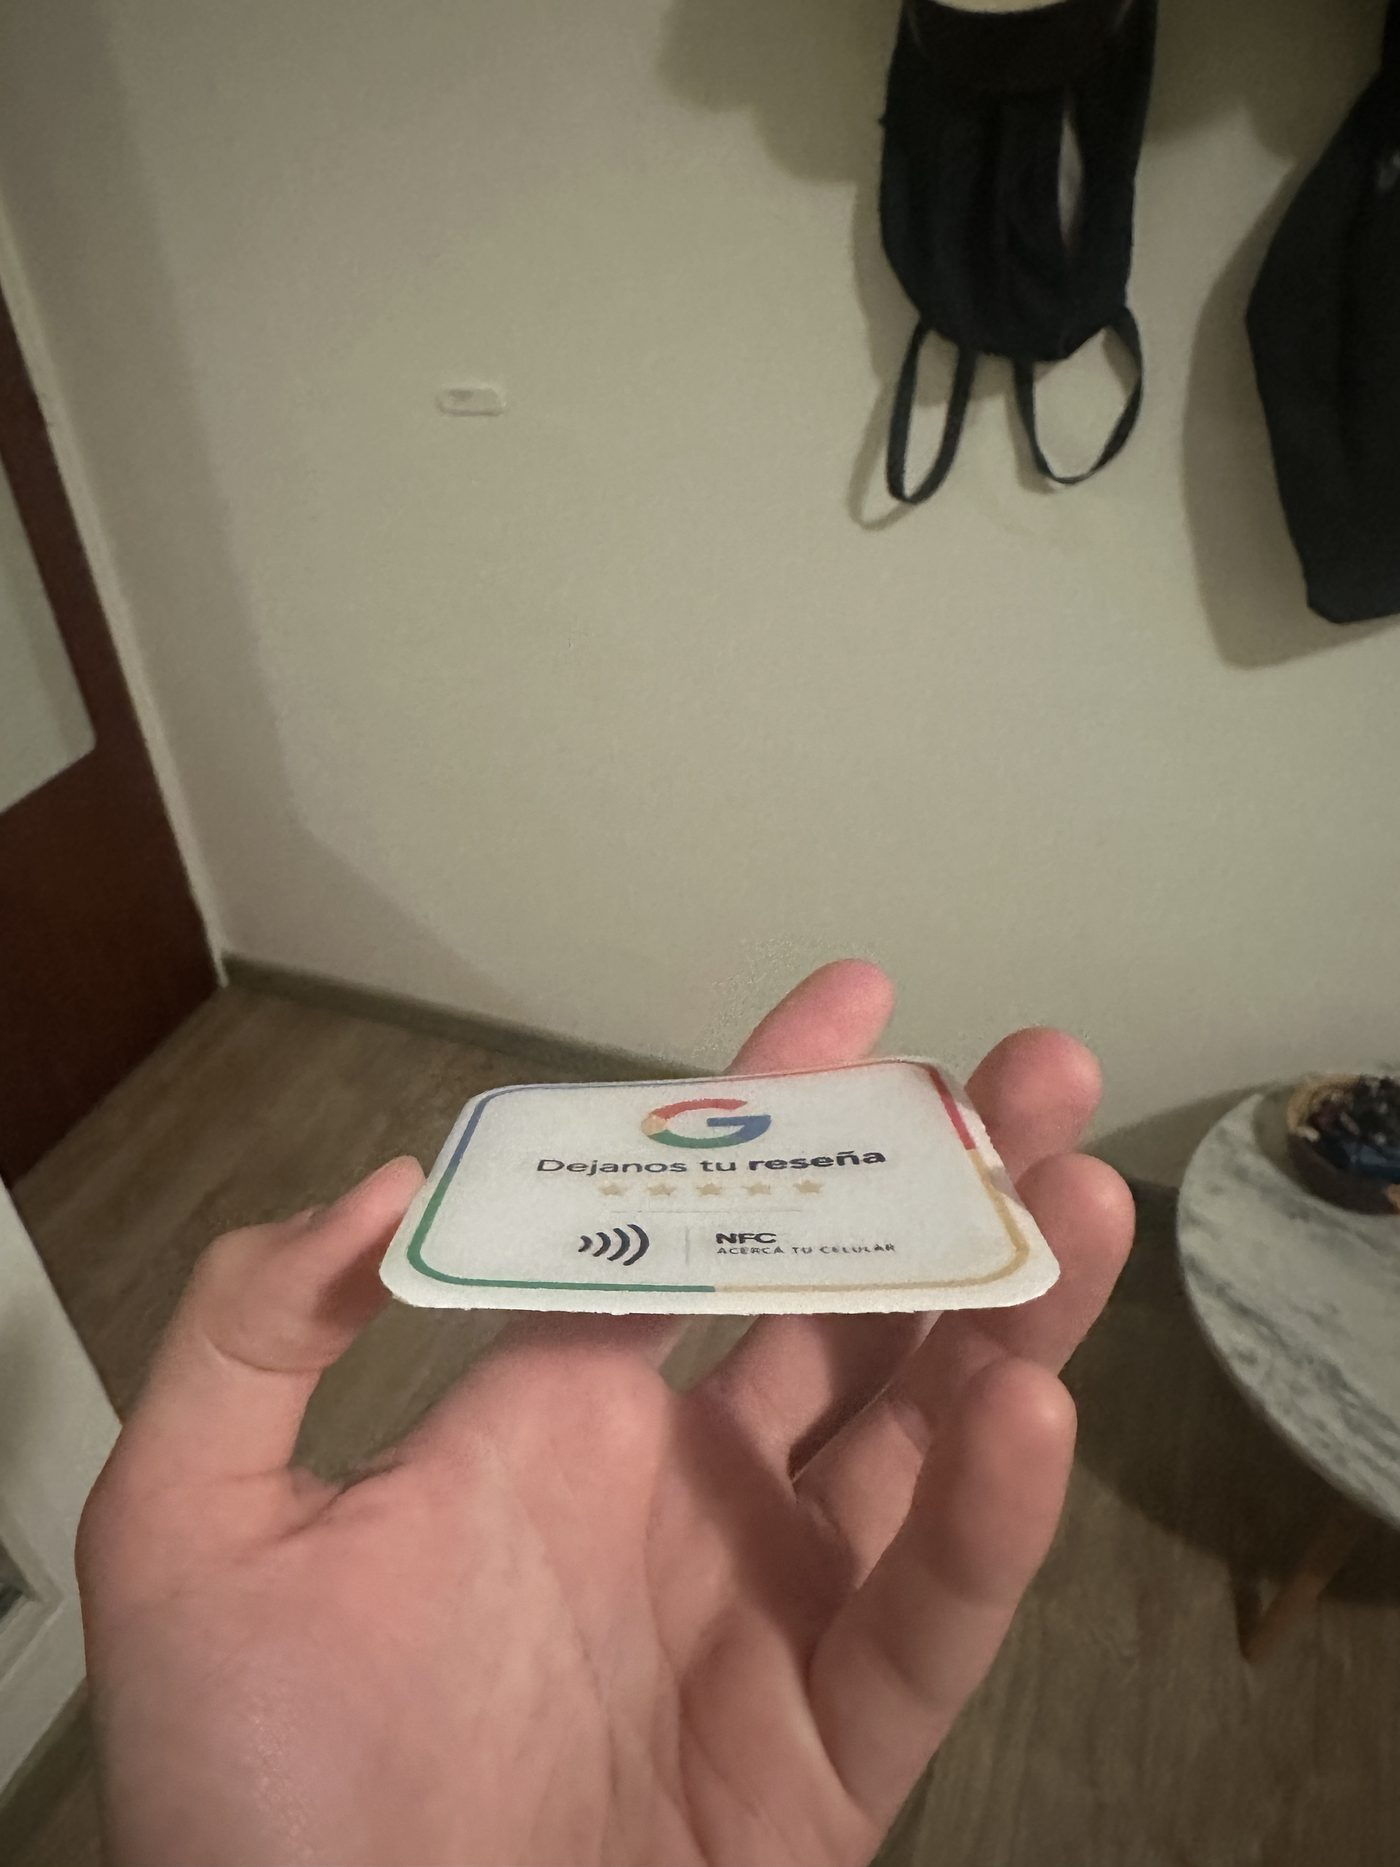
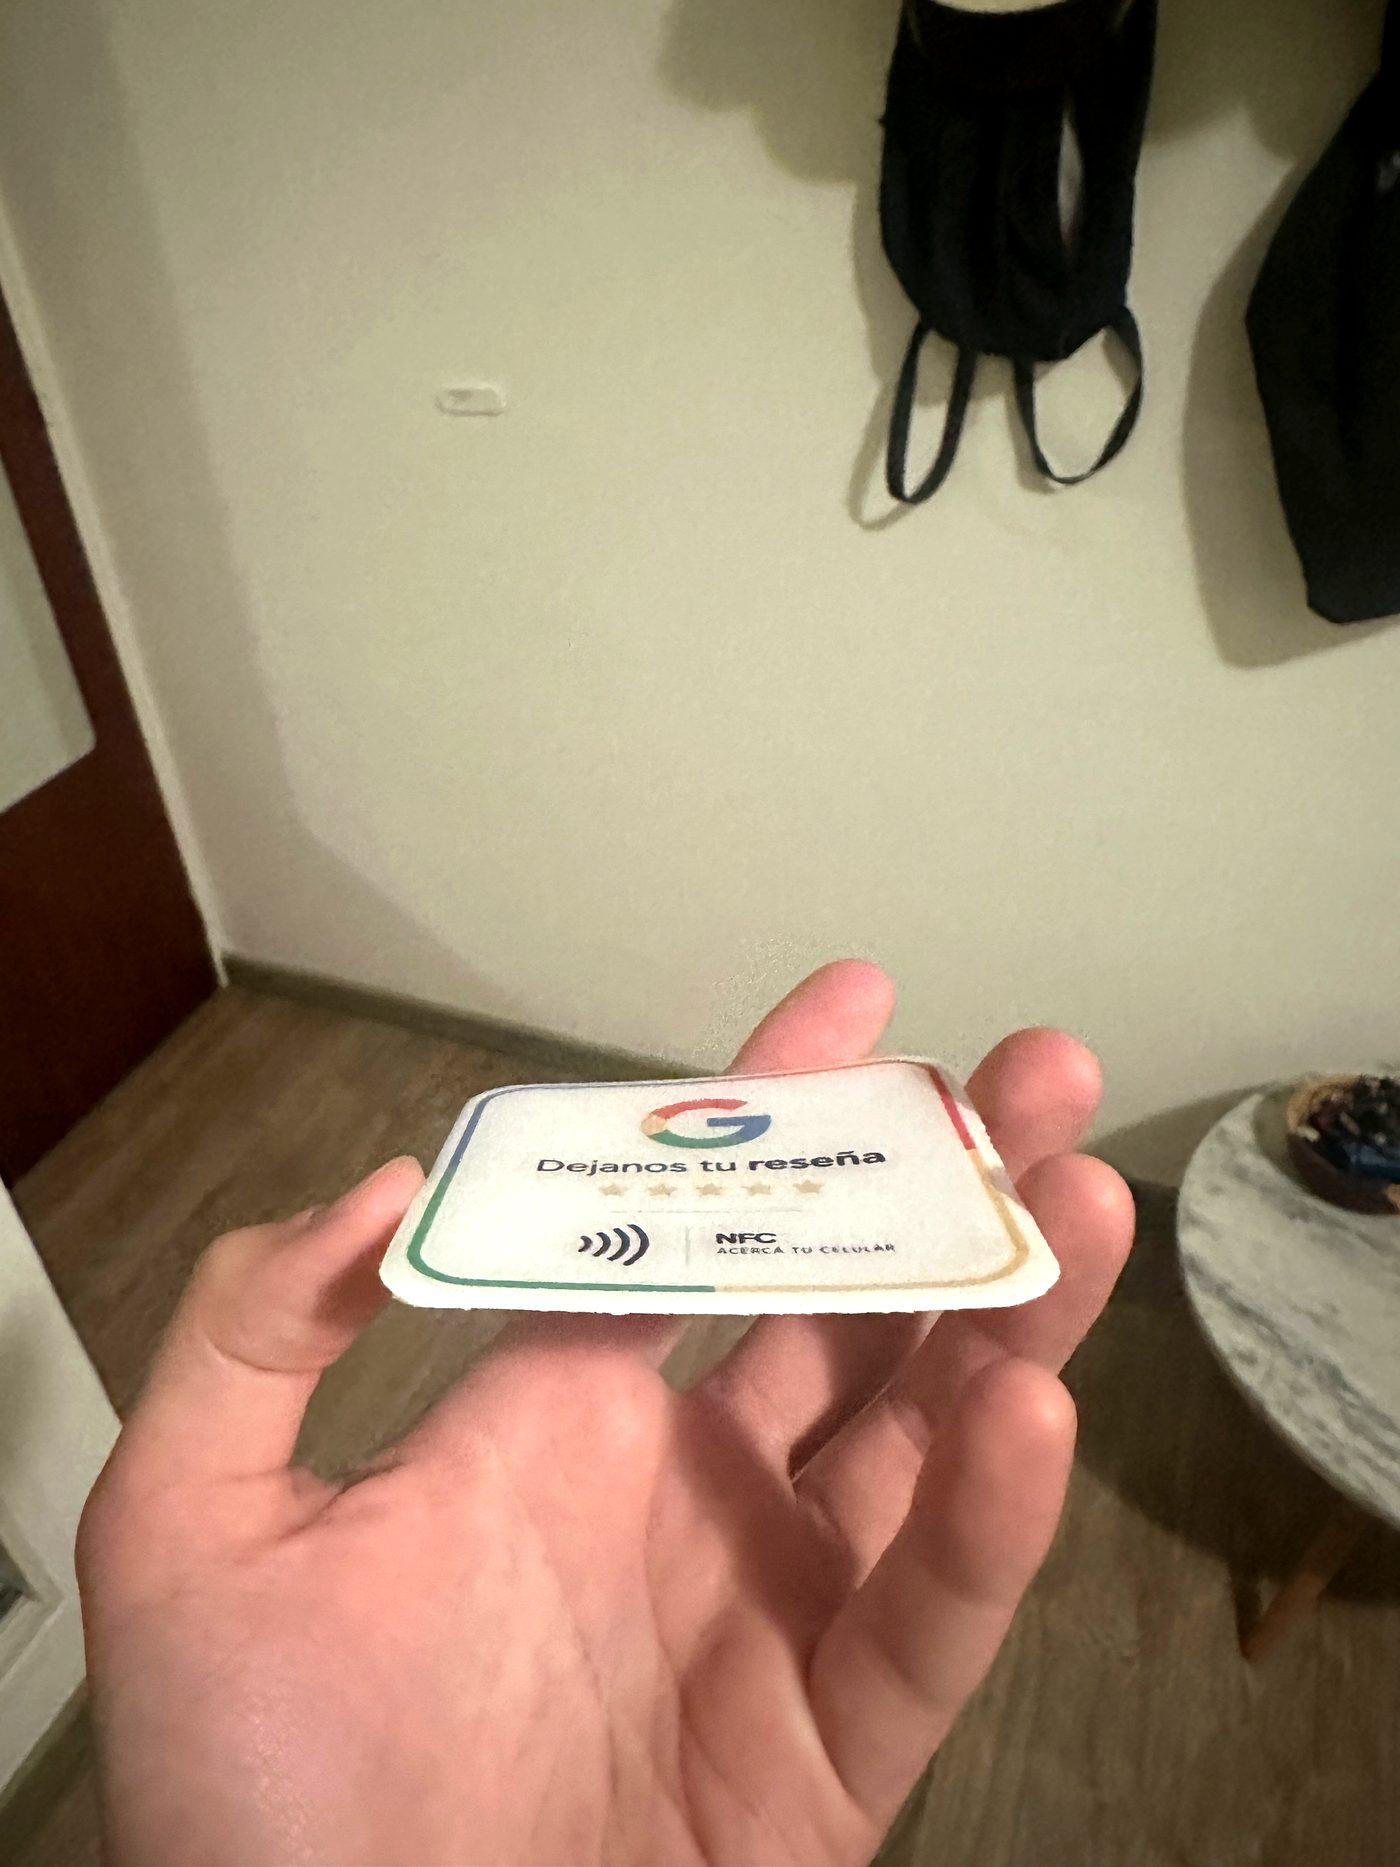
Ajustes de composición: demo del toque, fotos y grilla de tamaños
- Demo: el celular y la placa dejan de pisarse; escenario más alto,
  la pantalla se oscurece detrás de la hoja y la placa suma estrellas
  y glifo NFC para leerse como el producto real.
- Marco de la placa como anillo enmascarado: se van los huecos de
  las esquinas.
- Fotos nocturnas corregidas de exposición; la del canto recortada
  sobre la placa para que se lea el espesor.
- Grilla de tamaños con relaciones de aspecto fijas: deja de estirarse.

Claude-Session: https://claude.ai/code/session_01QP2KmuFkXsqLLVwAEd5vWi

diff --git a/styles.css b/styles.css
@@ -499,8 +499,8 @@ a { color: inherit; }
 
 .stage {
   position: relative;
-  aspect-ratio: 4 / 5;
-  max-width: 380px;
+  aspect-ratio: 3 / 4;
+  max-width: 400px;
   width: 100%;
   justify-self: center;
   border-radius: 24px;
@@ -516,26 +516,36 @@ a { color: inherit; }
 .plaque {
   position: absolute;
   left: 50%;
-  bottom: 11%;
-  width: 47%;
+  bottom: 7%;
+  width: 41%;
   aspect-ratio: 1;
   transform: translateX(-50%);
   border-radius: 16%;
   background: linear-gradient(160deg, oklch(0.995 0.002 80), oklch(0.93 0.006 80));
   box-shadow: 0 18px 34px -14px oklch(0.05 0 0 / 0.8), 0 0 0 1px oklch(1 0 0 / 0.08);
-  display: grid;
-  place-items: center;
+  display: flex;
+  flex-direction: column;
+  align-items: center;
+  justify-content: center;
+  gap: 7%;
 }
 .plaque__frame {
   position: absolute;
   inset: 9%;
   border-radius: 12%;
-  background:
-    linear-gradient(to right, var(--g-blue) 0 50%, var(--g-red) 50% 100%) top / 100% 2px no-repeat,
-    linear-gradient(to right, var(--g-green) 0 50%, var(--g-yellow) 50% 100%) bottom / 100% 2px no-repeat,
-    linear-gradient(to bottom, var(--g-blue) 0 50%, var(--g-green) 50% 100%) left / 2px 100% no-repeat,
-    linear-gradient(to bottom, var(--g-red) 0 50%, var(--g-yellow) 50% 100%) right / 2px 100% no-repeat;
-  opacity: 0.9;
+  padding: 2.5px;
+  background: conic-gradient(
+    from 135deg,
+    var(--g-blue) 0 25%,
+    var(--g-red) 25% 50%,
+    var(--g-yellow) 50% 75%,
+    var(--g-green) 75% 100%
+  );
+  /* Anillo limpio: la máscara vacía el interior y deja sólo el borde */
+  -webkit-mask: linear-gradient(#000 0 0) content-box, linear-gradient(#000 0 0);
+  -webkit-mask-composite: xor;
+  mask: linear-gradient(#000 0 0) content-box exclude, linear-gradient(#000 0 0);
+  opacity: 0.92;
 }
 .plaque__g {
   width: 34%;
@@ -550,15 +560,15 @@ a { color: inherit; }
   );
   mask: radial-gradient(circle, transparent 0 42%, #000 44%);
   -webkit-mask: radial-gradient(circle, transparent 0 42%, #000 44%);
-  transform: translateY(-6%);
+  transform: translateY(-8%);
 }
 
 /* Ondas que salen de la placa cuando hay contacto */
 .contact {
   position: absolute;
   left: 50%;
-  bottom: 30%;
-  width: 34%;
+  bottom: 24%;
+  width: 30%;
   aspect-ratio: 1;
   transform: translate(-50%, 50%);
   pointer-events: none;
@@ -584,8 +594,8 @@ a { color: inherit; }
 .phone {
   position: absolute;
   left: 50%;
-  top: 6%;
-  width: 52%;
+  top: 2%;
+  width: 41%;
   aspect-ratio: 1 / 2;
   border-radius: 13% / 6.5%;
   background: oklch(0.24 0.008 72);
@@ -597,9 +607,9 @@ a { color: inherit; }
   transition: transform 900ms var(--ease-in-out);
   will-change: transform;
 }
-.stage[data-step="0"] .phone { --phone-y: 0; --phone-r: -3deg; }
-.stage[data-step="1"] .phone { --phone-y: 30%; --phone-r: 0deg; }
-.stage[data-step="2"] .phone { --phone-y: 12%; --phone-r: 0deg; }
+.stage[data-step="0"] .phone { --phone-y: -2%; --phone-r: -3.5deg; }
+.stage[data-step="1"] .phone { --phone-y: 21%; --phone-r: 0deg; }
+.stage[data-step="2"] .phone { --phone-y: 6%; --phone-r: 0deg; }
 
 .phone__screen {
   position: relative;
@@ -607,6 +617,7 @@ a { color: inherit; }
   border-radius: 9% / 4.6%;
   background: oklch(0.985 0.002 80);
   overflow: hidden;
+  transition: background-color 420ms ease;
   display: flex;
   flex-direction: column;
 }
@@ -625,12 +636,15 @@ a { color: inherit; }
   position: absolute;
   inset: 0;
   display: grid;
-  place-content: center;
-  gap: 0.5rem;
+  align-content: start;
   justify-items: center;
+  gap: 0.4rem;
+  padding-top: 22%;
   color: oklch(0.55 0.01 72);
-  transition: opacity 320ms ease;
+  transition: opacity 300ms ease;
 }
+.stage[data-step="1"] .phone__idle,
+.stage[data-step="2"] .phone__idle { opacity: 0; }
 .phone__idle svg { color: oklch(0.62 0.01 72); }
 .phone__time {
   font-family: var(--font-sans);
@@ -646,8 +660,9 @@ a { color: inherit; }
   inset: auto 0 0 0;
   background: #fff;
   border-radius: 6% 6% 0 0 / 3% 3% 0 0;
-  box-shadow: 0 -8px 24px -10px oklch(0.05 0 0 / 0.25);
-  padding: 8% 8% 9%;
+  border-top: 1px solid oklch(0.90 0.004 80);
+  box-shadow: 0 -14px 30px -8px oklch(0.05 0 0 / 0.35);
+  padding: 7% 8% 8%;
   transform: translateY(101%);
   transition: transform 620ms var(--ease-drawer);
   z-index: 2;
@@ -657,6 +672,18 @@ a { color: inherit; }
 }
 .stage[data-step="1"] .sheet,
 .stage[data-step="2"] .sheet { transform: translateY(0); }
+
+/* La pantalla se oscurece detrás de la hoja, como un bottom sheet real */
+.stage[data-step="1"] .phone__screen,
+.stage[data-step="2"] .phone__screen { background: oklch(0.80 0.006 80); }
+
+.sheet__grab {
+  width: 20%;
+  height: 3.5px;
+  border-radius: 999px;
+  background: oklch(0.86 0.004 80);
+  margin: -2% auto 7%;
+}
 
 .sheet__biz { display: flex; align-items: center; gap: 6%; }
 .sheet__avatar {
@@ -808,8 +835,8 @@ a { color: inherit; }
   gap: 1.25rem;
 }
 @media (min-width: 760px) {
-  .sizes { grid-template-columns: 1.35fr 1fr; grid-template-rows: auto auto; }
-  .sizes__item:first-child { grid-row: span 2; }
+  .sizes { grid-template-columns: 1.2fr 1fr; align-items: stretch; }
+  .sizes__item:first-child { grid-row: span 2; aspect-ratio: auto; }
 }
 .sizes__item {
   position: relative;
@@ -821,11 +848,11 @@ a { color: inherit; }
 .sizes__item img {
   width: 100%;
   height: 100%;
-  min-height: 220px;
   object-fit: cover;
-  object-position: center 42%;
+  object-position: center 45%;
 }
-.sizes__item:first-child img { min-height: 340px; }
+.sizes__item { aspect-ratio: 16 / 11; }
+.sizes__item:first-child { aspect-ratio: 4 / 5; }
 .sizes__cap {
   position: absolute;
   left: 0.875rem;
@@ -1004,3 +1031,26 @@ a { color: inherit; }
 }
 .footer a { text-decoration: none; transition: color 160ms ease; }
 .footer a:hover { color: var(--paper); }
+
+/* Sombra de contacto: ancla la placa a una superficie */
+.plaque::after {
+  content: "";
+  position: absolute;
+  left: 50%;
+  bottom: -13%;
+  width: 118%;
+  height: 16%;
+  transform: translateX(-50%);
+  border-radius: 50%;
+  background: radial-gradient(ellipse, oklch(0.03 0 0 / 0.55), transparent 70%);
+  filter: blur(3px);
+}
+.plaque { z-index: 2; }
+.contact { z-index: 3; }
+.phone { z-index: 1; }
+
+/* Detalle de la placa a escala chica: la G, las estrellas y el glifo NFC */
+.plaque__stars { display: flex; gap: 6%; width: 44%; transform: translateY(-8%); }
+.plaque__stars svg { width: 100%; height: auto; color: var(--g-yellow); }
+.plaque__nfc { position: absolute; bottom: 16%; color: oklch(0.35 0.01 72); }
+.plaque__nfc svg { display: block; }

diff --git a/index.html b/index.html
@@ -130,6 +130,7 @@
                 <svg width="22" height="22" viewBox="0 0 16 16" fill="none" aria-hidden="true"><path d="M5.6 5.9a3 3 0 0 1 0 4.2M8 3.9a5.8 5.8 0 0 1 0 8.2M10.4 2a8.6 8.6 0 0 1 0 12" stroke="currentColor" stroke-width="1.4" stroke-linecap="round"/></svg>
               </div>
               <div class="sheet">
+                <span class="sheet__grab" aria-hidden="true"></span>
                 <div class="sheet__biz">
                   <span class="sheet__avatar" aria-hidden="true"></span>
                   <span>
@@ -155,6 +156,14 @@
           <div class="plaque" aria-hidden="true">
             <span class="plaque__frame"></span>
             <span class="plaque__g"></span>
+            <span class="plaque__stars">
+              <svg viewBox="0 0 20 19" fill="currentColor"><path d="m10 0 3.1 6.3 6.9 1-5 4.9 1.2 6.8L10 15.8 3.8 19 5 12.2 0 7.3l6.9-1z"/></svg>
+              <svg viewBox="0 0 20 19" fill="currentColor"><path d="m10 0 3.1 6.3 6.9 1-5 4.9 1.2 6.8L10 15.8 3.8 19 5 12.2 0 7.3l6.9-1z"/></svg>
+              <svg viewBox="0 0 20 19" fill="currentColor"><path d="m10 0 3.1 6.3 6.9 1-5 4.9 1.2 6.8L10 15.8 3.8 19 5 12.2 0 7.3l6.9-1z"/></svg>
+              <svg viewBox="0 0 20 19" fill="currentColor"><path d="m10 0 3.1 6.3 6.9 1-5 4.9 1.2 6.8L10 15.8 3.8 19 5 12.2 0 7.3l6.9-1z"/></svg>
+              <svg viewBox="0 0 20 19" fill="currentColor"><path d="m10 0 3.1 6.3 6.9 1-5 4.9 1.2 6.8L10 15.8 3.8 19 5 12.2 0 7.3l6.9-1z"/></svg>
+            </span>
+            <span class="plaque__nfc"><svg width="16" height="16" viewBox="0 0 16 16" fill="none"><path d="M5.6 5.9a3 3 0 0 1 0 4.2M8 3.9a5.8 5.8 0 0 1 0 8.2M10.4 2a8.6 8.6 0 0 1 0 12" stroke="currentColor" stroke-width="1.5" stroke-linecap="round"/></svg></span>
           </div>
         </div>
 
@@ -241,7 +250,7 @@
         <figure class="sizes__item reveal" style="margin:0;--d:80ms">
           <picture>
             <source type="image/webp" srcset="/assets/mano-canto-sm.webp 700w, /assets/mano-canto.webp 1400w" sizes="(min-width: 760px) 40vw, 92vw">
-            <img src="/assets/mano-canto.jpg" srcset="/assets/mano-canto-sm.jpg 700w, /assets/mano-canto.jpg 1400w" sizes="(min-width: 760px) 40vw, 92vw" width="1400" height="1867" loading="lazy" decoding="async" alt="La placa vista de canto entre los dedos, mostrando lo finita que es.">
+            <img src="/assets/mano-canto.jpg" srcset="/assets/mano-canto-sm.jpg 700w, /assets/mano-canto.jpg 1400w" sizes="(min-width: 760px) 40vw, 92vw" width="1400" height="957" loading="lazy" decoding="async" alt="La placa vista de canto entre los dedos, mostrando lo finita que es.">
           </picture>
           <figcaption class="sizes__cap"><b>De canto</b> <span>· finita, no hace bulto</span></figcaption>
         </figure>
